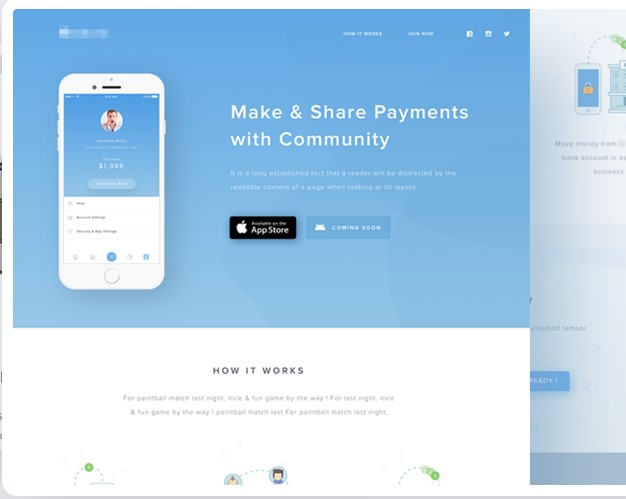
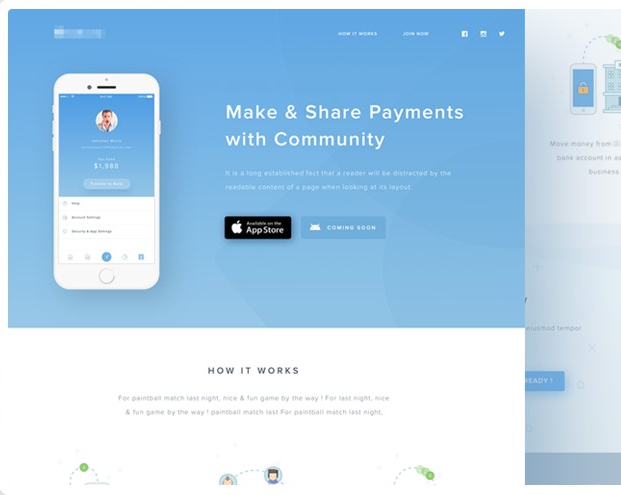
Some changes on design

diff --git a/style.css b/style.css
@@ -41,16 +41,16 @@ a {
 .top-nav a:visited {
     text-decoration: none;
     color: #fff;
-    font-weight: 100;
+    font-weight: 300;
     font-size: 75%;
-    border-bottom: 1px solid #fa6ade;
+    border-bottom: 1px solid rgb(230, 0 , 23);  /* rgb(230, 0 , 23) */
     padding-bottom: 4px;
     transition: border-bottom 0.2s;
 }
 
 .top-nav a:hover,
 .top-nav a:active {
-    border-bottom: 3px solid #fa6ade;
+    border-bottom: 3px solid rgb(230, 0 , 23);
 }
 
 
@@ -80,7 +80,7 @@ h2 {
     color: #696969;
     font-size: 500%;
     line-height: 100px;
-    border-bottom: 10px solid #fa6ade;
+    border-bottom: 10px solid rgb(230, 0 , 23);
     width: 150px;
     line-height: 125px;
     text-transform: uppercase;
@@ -99,7 +99,7 @@ h3:after {
     display: block;
     margin: 0 auto;
     width: 5%;
-    border-bottom: 10px solid #fa6ade;
+    border-bottom: 10px solid rgb(230, 0 , 23);
 }
 
 h4 {
@@ -124,25 +124,24 @@ h5 {
     font-weight: 400;
     font-size: 120%;
     border-radius: 50px;
-    transition: box-shadow 2s, background-color 1s, border 0.2s, color 0.2s;
+    transition: box-shadow 2s, background-color 1s, color 0.2s;
 }
 
 
 .btn-full:link,
 .btn-full:visited {
     color: #fff;
-    border: 2px solid #fa6ade;
-    background-color: #fa6ade;
+    border: 2px solid #ededed;
+    background-color: rgb(230, 0 , 23);
     padding: 10px 30px;
-    box-shadow: 0px 5px 10px 10px rgba(250,106,222,0.5);
+    box-shadow: 1px 1px 3px 3px rgba(230,0,23,0.7);
 }
 
 
 .btn-full:hover,
 .btn-full:active {
-    background-color: rgb(92, 32, 193);
-    border-color: #fff; 
-    box-shadow: 0px 5px 10px 10px rgb(92, 32, 193);
+    background-color: rgb(255, 50, 50);
+    box-shadow: 1px 1px 3px 3px rgb(255, 50, 50);
 }
 
 .btn-ghost:link,
@@ -165,26 +164,35 @@ h5 {
 
 header {
     height: 100vh;
-    background-color: rgb(92, 32, 193);
+    background-image: linear-gradient(to right, rgb(153, 217, 234) 30%, #29acff);
     position: relative;
     text-transform: uppercase;
 }
 
 .logo {
-    height: 100px;
+    height: 120px;
     width: auto;
     margin-top: 20px;
 }
 
 .top-nav {
-    margin-top: 60px;
+    margin-top: 70px;
     float: right;
 }
 
 .top-nav li {
     list-style: none;
     display: inline-block;
-    margin-right: 100px;
+    margin-right: 72px;
+}
+
+.emotion {
+    margin-top: 205px;
+}
+
+.emopic {
+    width: 520px;
+    height: 360px;
 }
 
 .Text-box-1 {
@@ -203,6 +211,10 @@ header {
 .what-we-do-ul li {
     padding: 20px;
     margin-bottom: 40px;
+}
+
+.what-we-do-ul li:last-child {
+    margin-bottom: 0px;
 }
 
 .what-we-do p {
@@ -268,7 +280,7 @@ header {
 /*FOOTER*/
 
 footer {
-    background-color: rgb(92, 32, 193);
+    background-image: linear-gradient(to right, rgb(153, 217, 234) 30%, #29acff);
     padding: 70px 20px 20px 20px;
 }
 

diff --git a/index.html b/index.html
@@ -18,17 +18,29 @@
     <header>
         <nav>
             <div class="row">
-                <img src="images/logo.png" alt="Logo" class="logo">
+                <img src="images/logo2.png" alt="Logo" class="logo">
                 
                 <ul class="top-nav">
                     <li><a href="#">Home</a></li>
                     <li><a href="#">Services</a></li>
                     <li><a href="#">Portfolio</a></li>
+                    <li><a href="#">Blog</a></li>
                     <li><a href="#">Contact</a></li>
                 </ul>
              </div>
         </nav>
         
+        <div class="row">
+            <div class="col span-1-of-2 emotion">
+                <img src="images/Emotions.jpeg" class="emopic">
+            </div>
+            <div class="col span-1-of-2">
+                <div class="Text-box-1">
+                <h1>We bring<br> emotion to your<br> product</h1>
+                <a href="#" class="button btn-full">Contact us</a>
+            </div>    
+        </div>
+        </div>
         <div class="Text-box-1">
             <h1>We bring<br> emotion to your<br> product</h1>
             <a href="#" class="button btn-full">Contact us</a>
@@ -117,7 +129,7 @@
         <div class="row">
             <div class="col span-1-of-2 bottom-text">
                 <h5>PAPERPILLAR</h5>
-                <p>Happy Design Studio based in Yogyakarta</p>
+                <p>Made in Turkey / Kastamonu</p>
                 <ul class="social-links">
                     <li><a href="#"><i class="ion-social-facebook"></i></a></li>
                     <li><a href="#"><i class="ion-social-twitter"></i></a></li>
